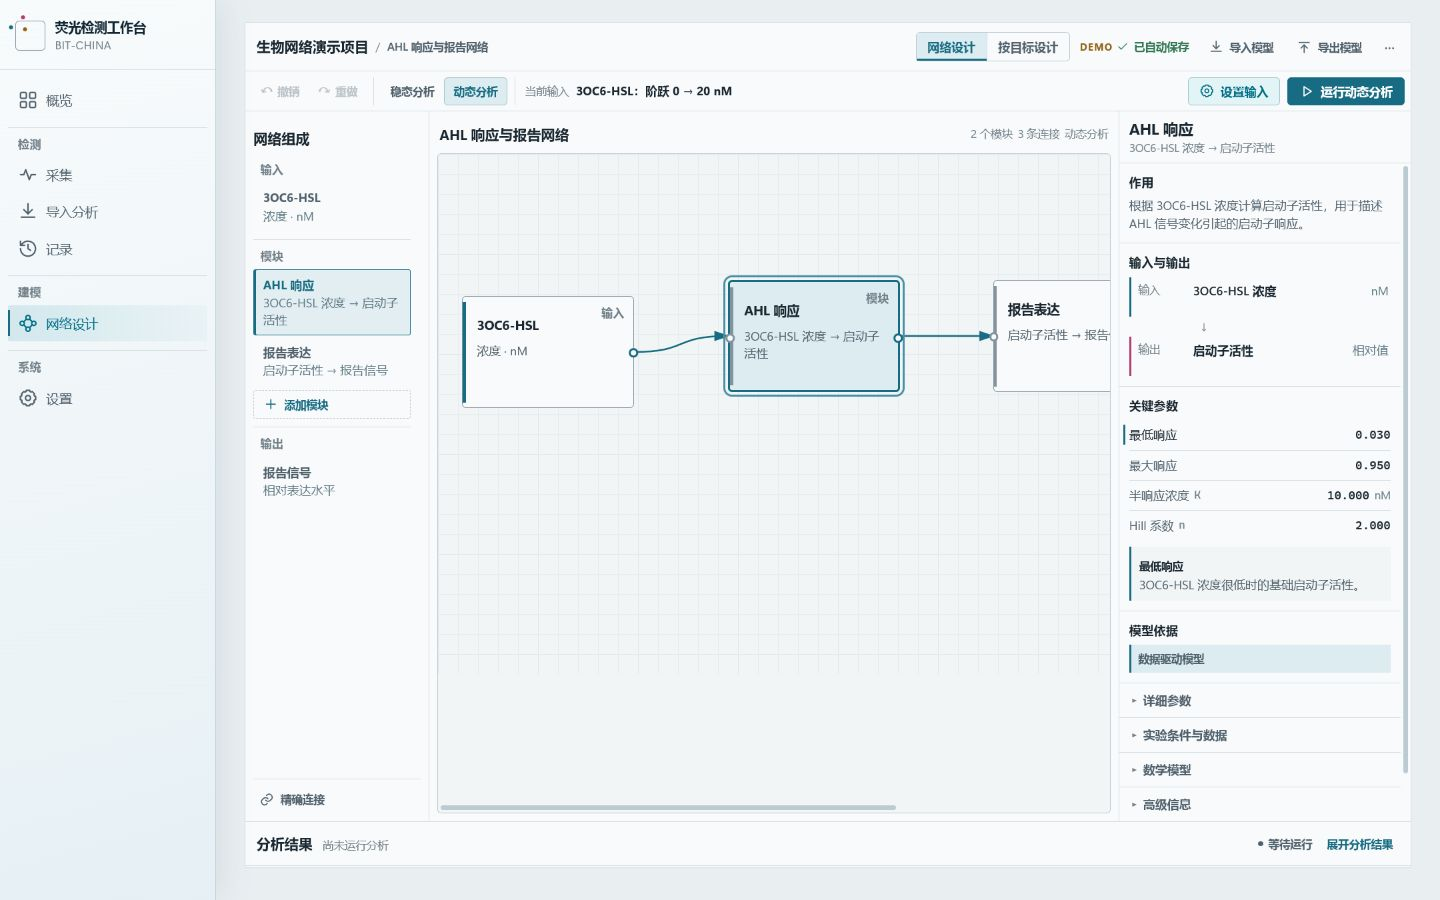
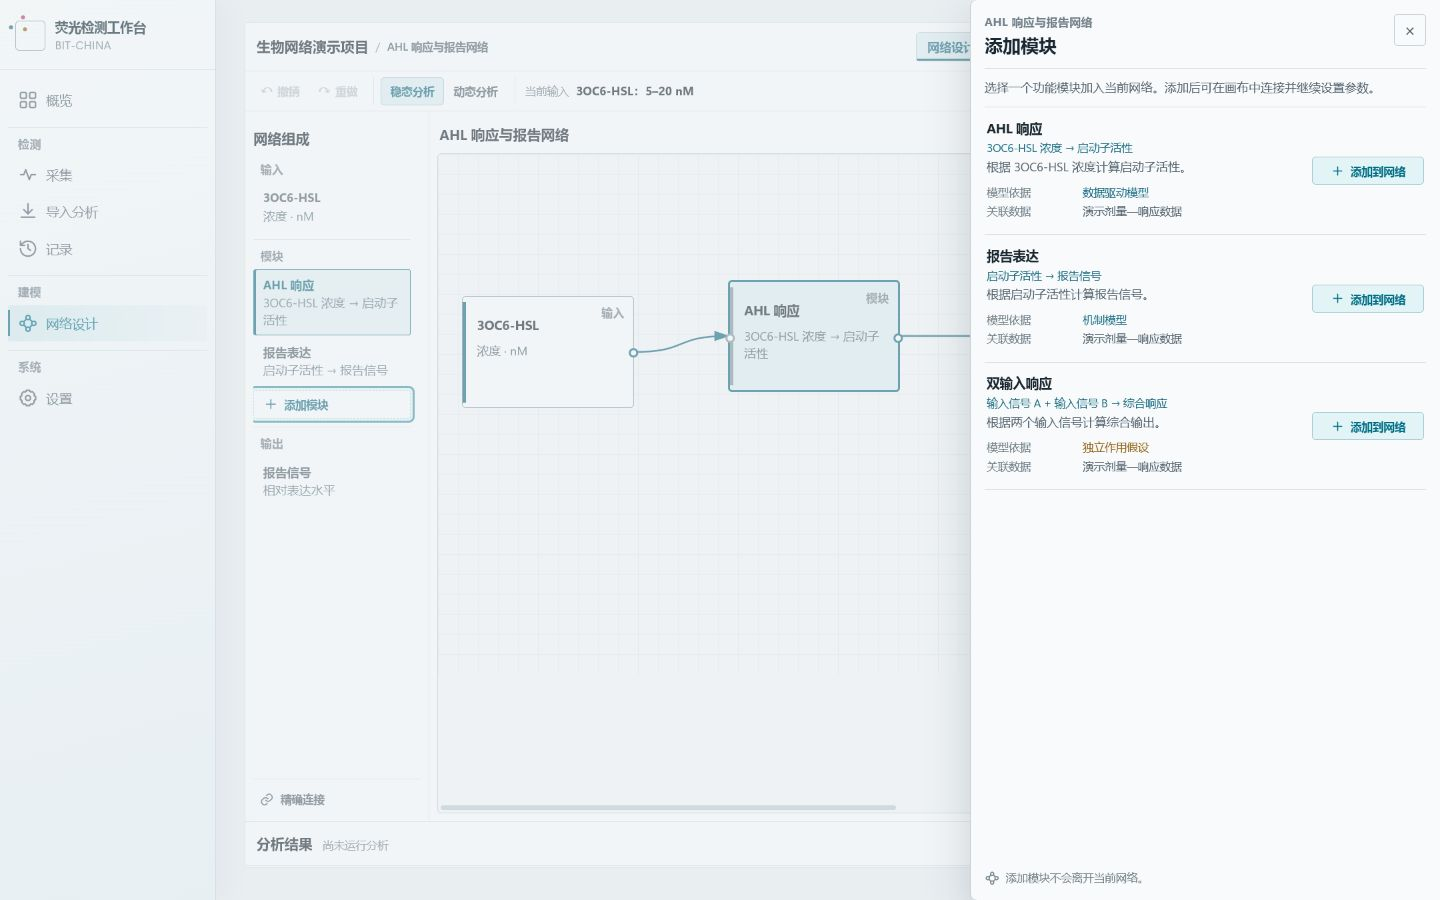
docs(ui): refine evidence audit capture

diff --git a/docs/ui-audit/surface-consolidation/README.md b/docs/ui-audit/surface-consolidation/README.md
@@ -7,7 +7,7 @@
 | 文件                                 | 验收内容                                                                  |
 | ------------------------------------ | ------------------------------------------------------------------------- |
 | `01-network-toolbar-1440x900.png`    | 项目名称、网络名称、工作区页签、DEMO 元数据、自动保存状态与两行运行工具栏 |
-| `02-network-workspace-1440x900.png`  | 对象索引、工程画布、报告表达选中态、属性检查器与结果 Dock 的连续工作台    |
+| `02-network-workspace-1440x900.png`  | 对象索引、工程画布、AHL 响应选中态、属性检查器与结果 Dock 的连续工作台    |
 | `03-evidence-semantics-1440x900.png` | 模块目录中的数据驱动模型、机制模型与独立作用假设；证据不再默认使用成功色  |
 | `04-result-status-1440x900.png`      | 动态模式切换后的旧结果、警示状态、重跑入口和保留的真实 ANN 验证状态       |
 | `05-overview-1440x900.png`           | 概览曲线、设备、记录与当前模式的连续摘要表面                              |
